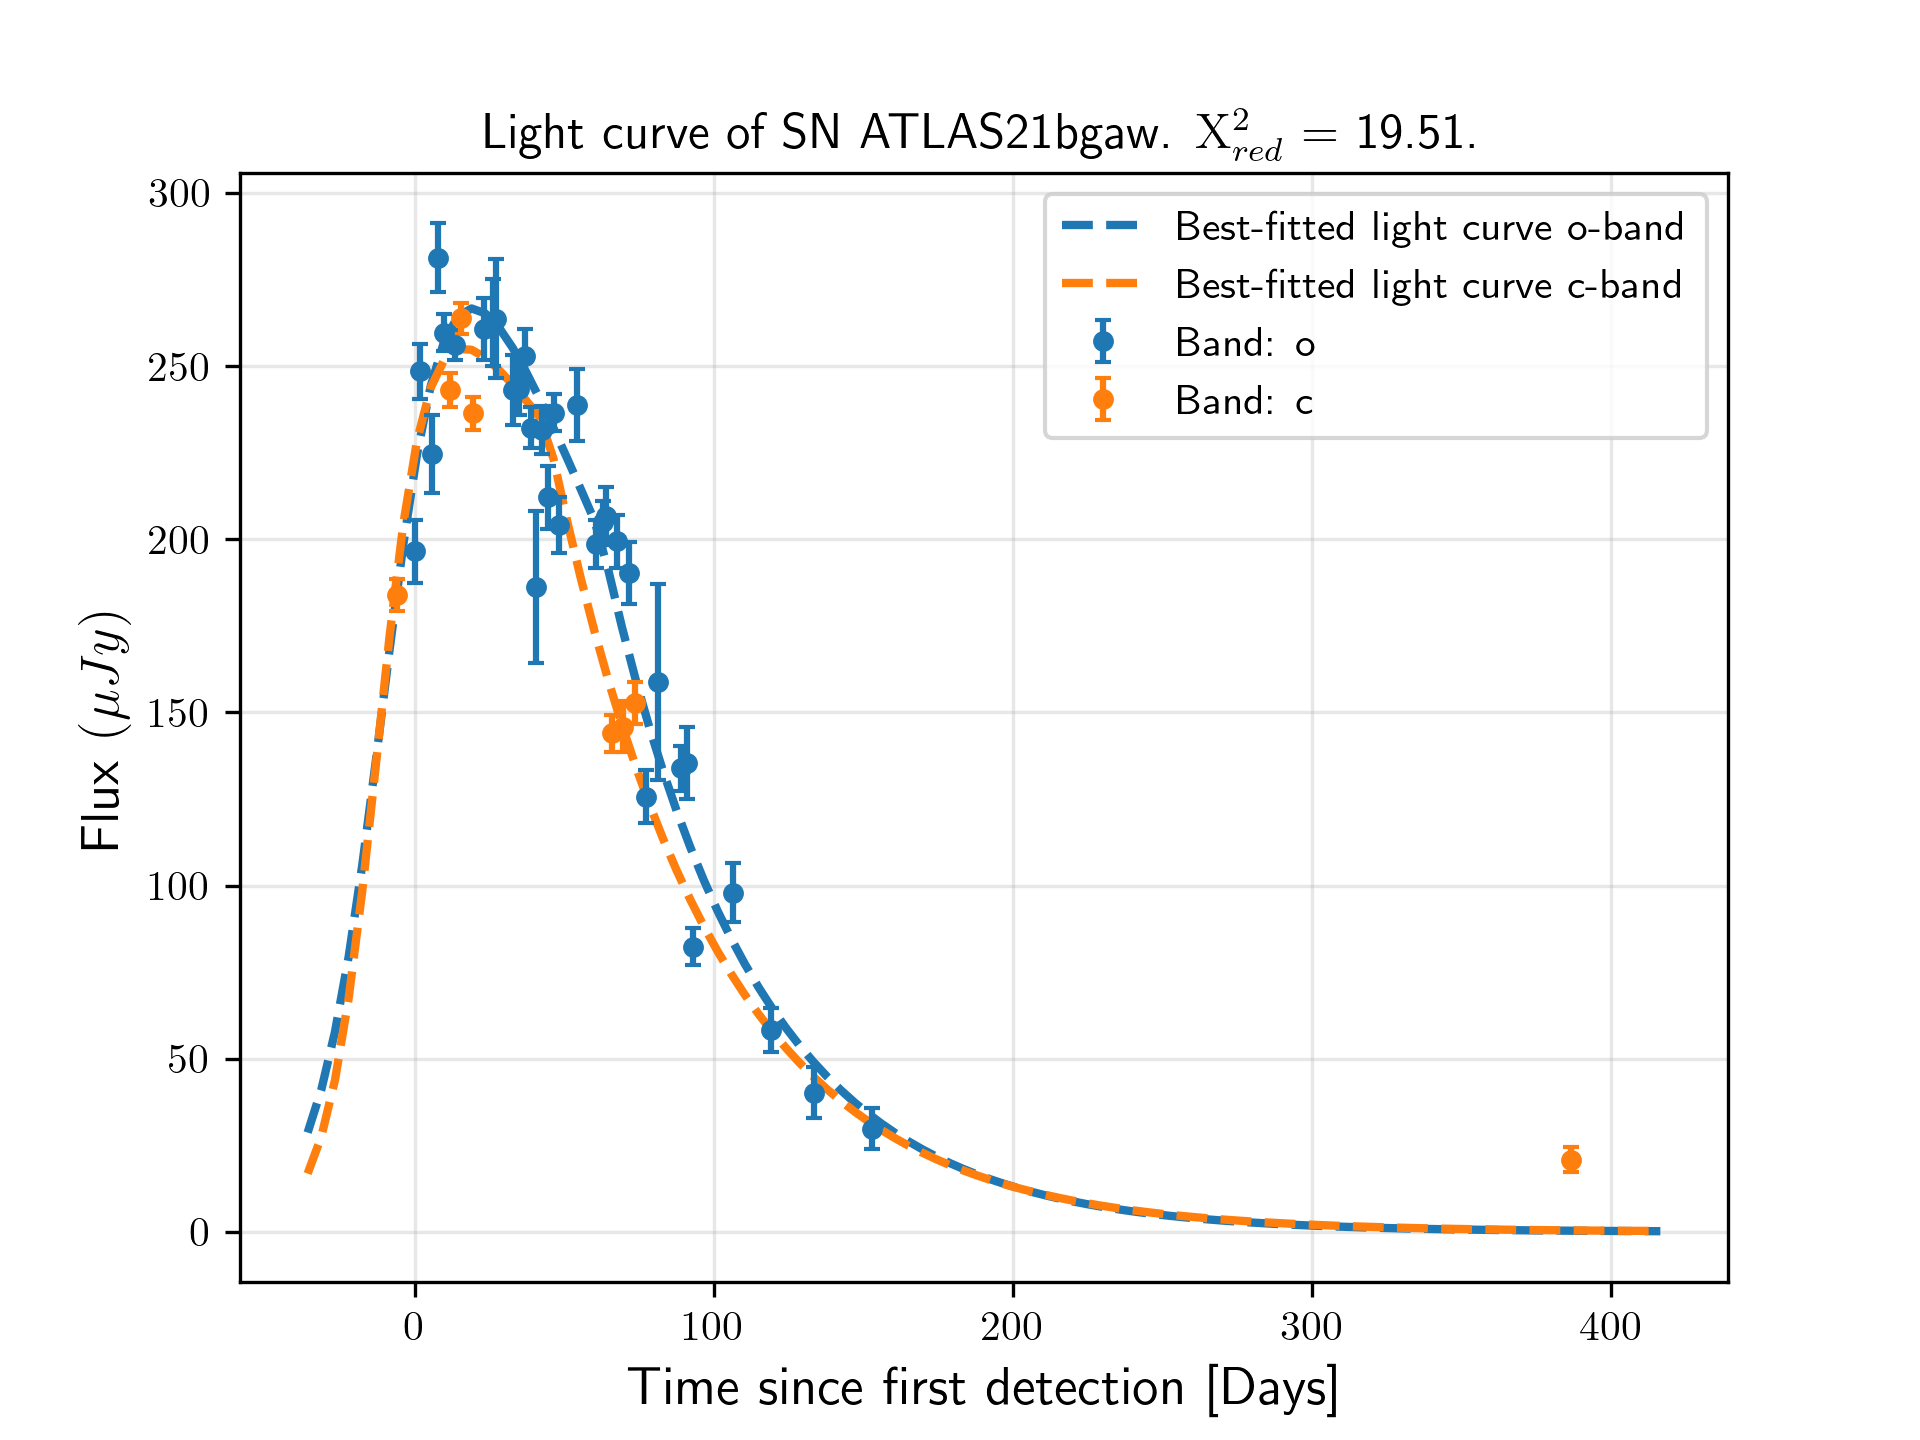
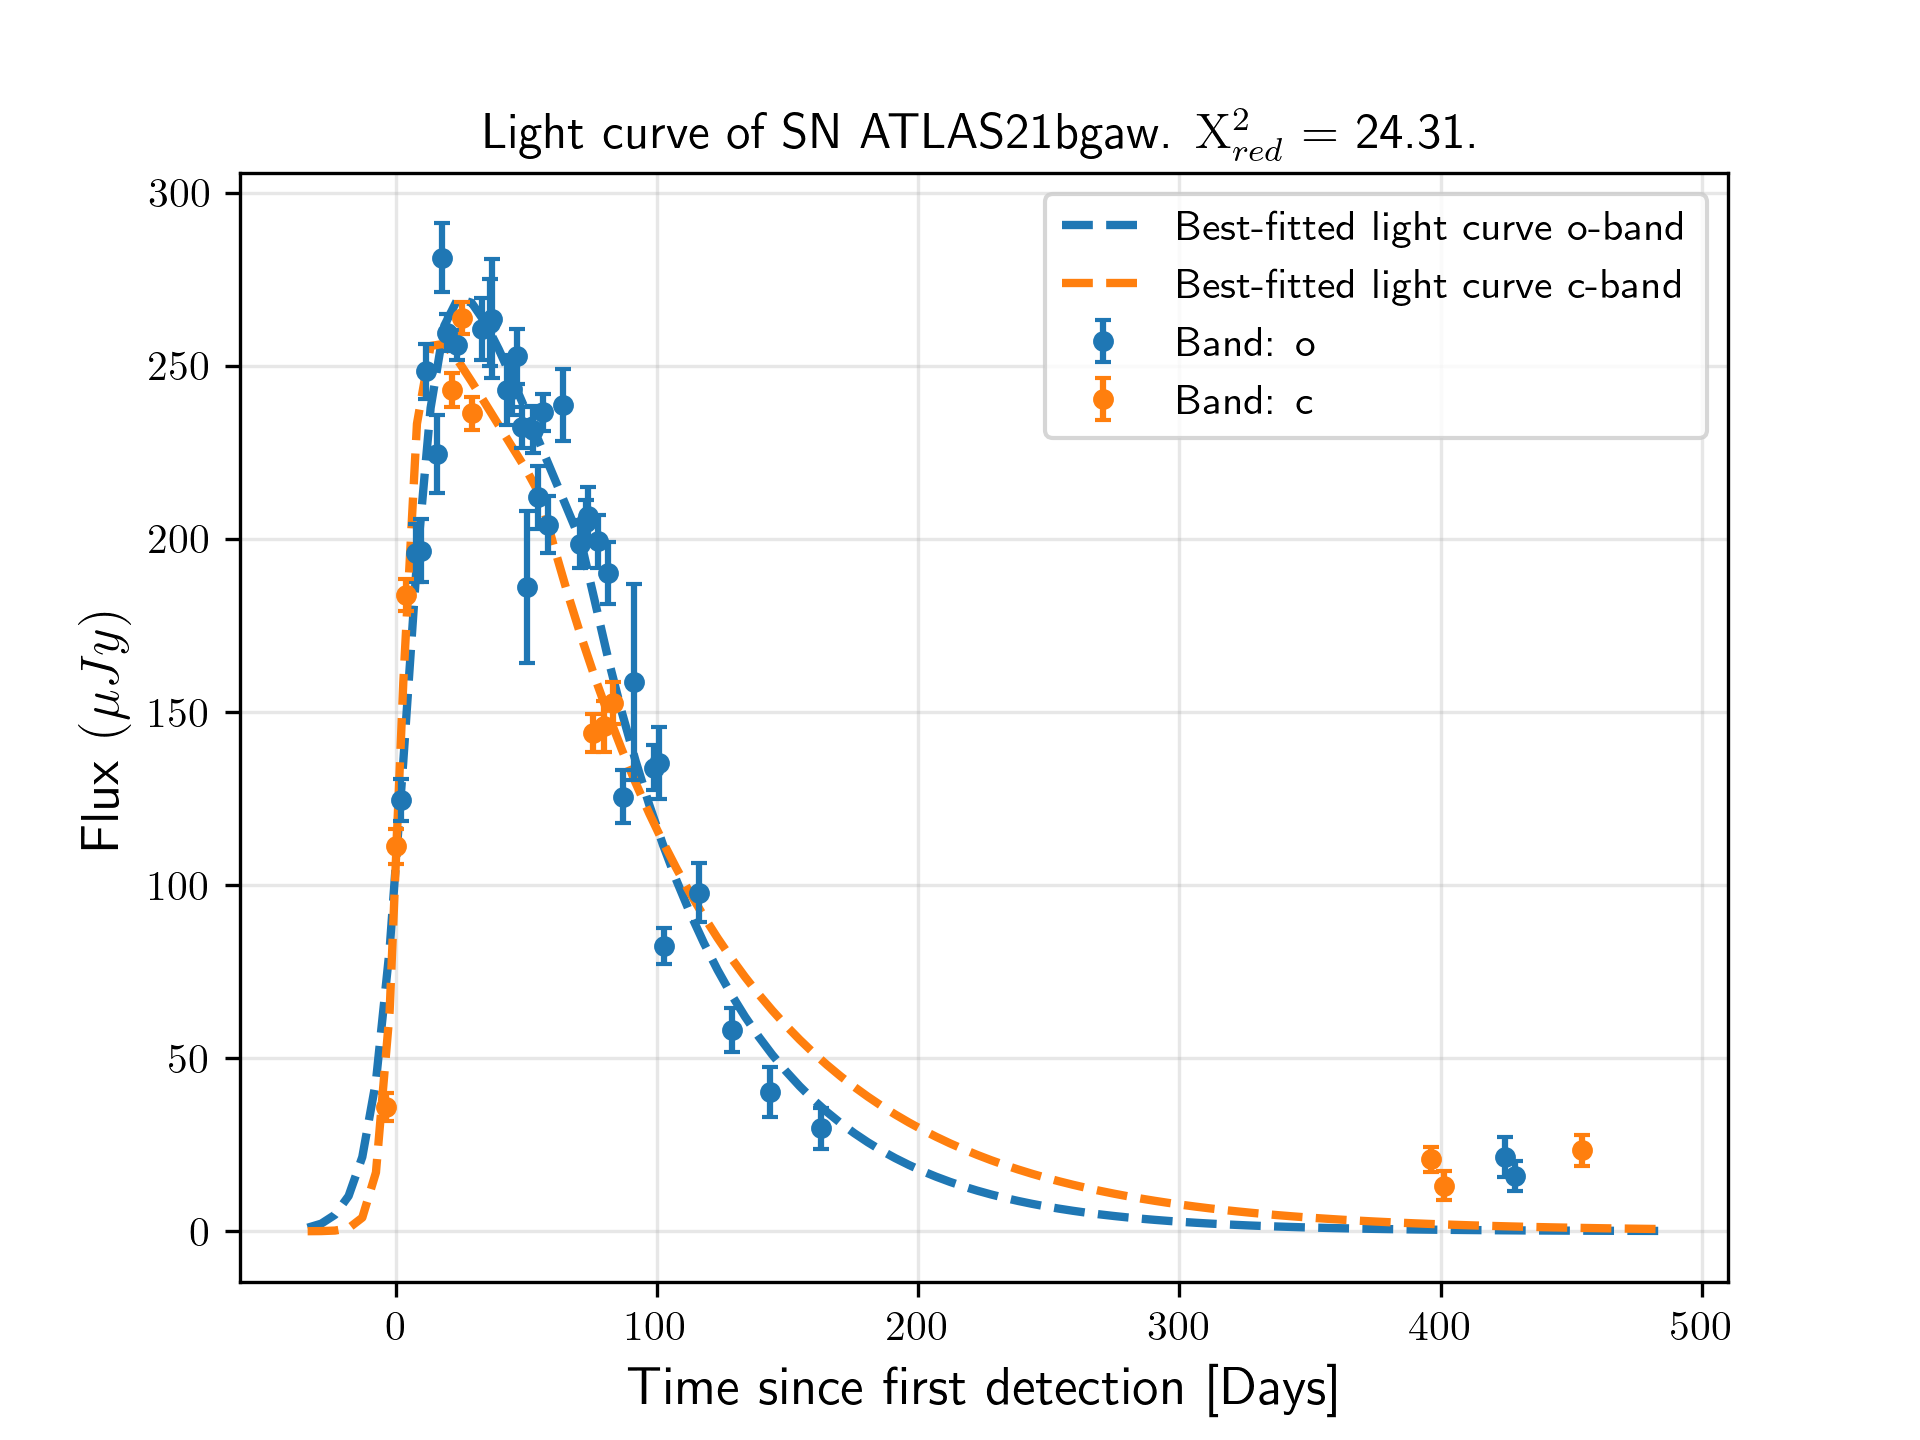
Changed and tested param reduction to be less sensitive to noise

diff --git a/parameter_estimation.py b/parameter_estimation.py
@@ -58,9 +58,9 @@ std_two_peaks = initial_std_two_peaks
 
 parameter_bounds_one_peak = ([-0.3, -100, -2, 0, 0, 0, -3, -1, -50, -1.5, -1.5, -2, -1.5, -1.5], [0.5, 30, 4, 3.5, 0.03, 4, -0.8, 1, 30, 1.5, 1.5, 1, 1.5, -1])
 
-parameter_bounds_gaussian = ([0, -300, 0, 0.5, 0.5, 0.5], [1, 300, 150, 2.0, 2.0, 2.0])
+parameter_bounds_gaussian = ([0, -500, 0, -2.0, -2.0, -2.0], [1, 500, 150, 2.0, 2.0, 2.5])
 
-parameter_bounds_two_peaks = ([-0.3, -100, -2, 0, 0, 0, -3, -1, -50, -1.5, -1.5, -2, -1.5, -1.5, 0, -300, 0, 0.5, 0.5, 0.5], [0.5, 30, 4, 3.5, 0.03, 4, -0.8, 1, 30, 1.5, 1.5, 1, 1.5, -1, 1, 300, 150, 2.0, 2.0, 2.0])
+parameter_bounds_two_peaks = ([-0.3, -100, -2, 0, 0, 0, -3, -1, -50, -1.5, -1.5, -2, -1.5, -1.5, 0, -500, 0, -2.0, -2.0, -2.0], [0.5, 30, 4, 3.5, 0.03, 4, -0.8, 1, 30, 1.5, 1.5, 1, 1.5, -1, 1, 500, 150, 2.0, 2.0, 2.0])
 
 def prior_one_peak(cube, ndim, nparams):
 
@@ -849,15 +849,6 @@ def fit_light_curve(SN_id, survey):
         # Load the data
         time, flux, fluxerr, filters, boundaries = atlas_load_data(SN_id)
 
-    # Only consider data belonging to the supernova explosion
-    f1_values = np.where(filters == f1)
-    f2_values = np.where(filters == f2)
-
-    time = np.concatenate((time[f1_values][boundaries[0] : boundaries[1]], time[f2_values][boundaries[2] : boundaries[3]]))
-    flux = np.concatenate((flux[f1_values][boundaries[0] : boundaries[1]], flux[f2_values][boundaries[2] : boundaries[3]]))
-    fluxerr = np.concatenate((fluxerr[f1_values][boundaries[0] : boundaries[1]], fluxerr[f2_values][boundaries[2] : boundaries[3]]))
-    filters = np.concatenate((filters[f1_values][boundaries[0] : boundaries[1]], filters[f2_values][boundaries[2] : boundaries[3]]))
-
     f1_values = np.where(filters == f1)
     f2_values = np.where(filters == f2)
 
@@ -870,7 +861,7 @@ def fit_light_curve(SN_id, survey):
     time -= peak_time
 
     ###### Augment data ######
-    amount_aug = 70
+    amount_aug = 50
 
     time_aug, flux_aug, fluxerr_aug, filters_aug = augment_data(survey, peak_time, amount_aug)
 
@@ -951,7 +942,8 @@ def fit_light_curve(SN_id, survey):
             down_bound = parameter_bounds_gaussian[0]
             up_bound = parameter_bounds_gaussian[1]
 
-            if not ((down_bound <= guess_parameters) & (guess_parameters <= up_bound)).all():
+            if not ((down_bound <= list(guess_parameters)) & (list(guess_parameters) <= up_bound)):
+
                 # The one-peak light curve is a better fit
                 np.save(f"Data/Analytical_parameters/{survey}/one_peak/{SN_id}_parameters_OP", one_peak_parameters)
                 
@@ -974,7 +966,7 @@ def fit_light_curve(SN_id, survey):
                 except RuntimeError:
                     second_peak_parameters = guess_parameters
 
-                except ValueError:
+                except ValueError:                  
                     # The one-peak light curve is a better fit
                     np.save(f"Data/Analytical_parameters/{survey}/one_peak/{SN_id}_parameters_OP", one_peak_parameters)
 
@@ -1000,8 +992,6 @@ def fit_light_curve(SN_id, survey):
                 flux = original_flux
 
                 initial_guesses = list(residual_parameters) + list(second_peak_parameters)
-
-                mean_two_peaks = initial_guesses
 
                 # Estimate the parameters of the full light curve in both bands simultaneously
                 try:
@@ -1030,12 +1020,14 @@ def fit_light_curve(SN_id, survey):
             # The two-peaks light curve is a better fit
             np.save(f"Data/Analytical_parameters/{survey}/two_peaks/{SN_id}_parameters_TP", two_peaks_parameters) 
 
+            # Still save one-peak parameters for further analysis
+            np.save(f"Data/Analytical_parameters/{survey}/one_peak/{SN_id}_parameters_OP", one_peak_parameters)
+
             with open(f"Data/Analytical_parameters/{survey}/two_peaks/red_chi_squared_TP.csv", "a", newline = "") as file:
                 writer = csv.writer(file)
                 writer.writerow([SN_id, red_chi_squared_TP])
 
             # Plot the results
-
             flux_fit_TP = light_curve_two_peaks(time_fit, two_peaks_parameters, peak_flux, f1_values_fit, f2_values_fit)
             plot_best_fit_light_curve(SN_id, red_chi_squared_TP, time_fit, flux_fit_TP, f1_values_fit, f2_values_fit, peak_time, amount_fit, f"{survey}/two_peaks/Best_fit_{SN_id}_TP")
 
@@ -1045,6 +1037,7 @@ if __name__ == '__main__':
     
     survey = "ZTF"
     for SN_id in ztf_names_sn_IIn:
+        
         fit_light_curve(SN_id, survey)
 
     survey = "ATLAS"
